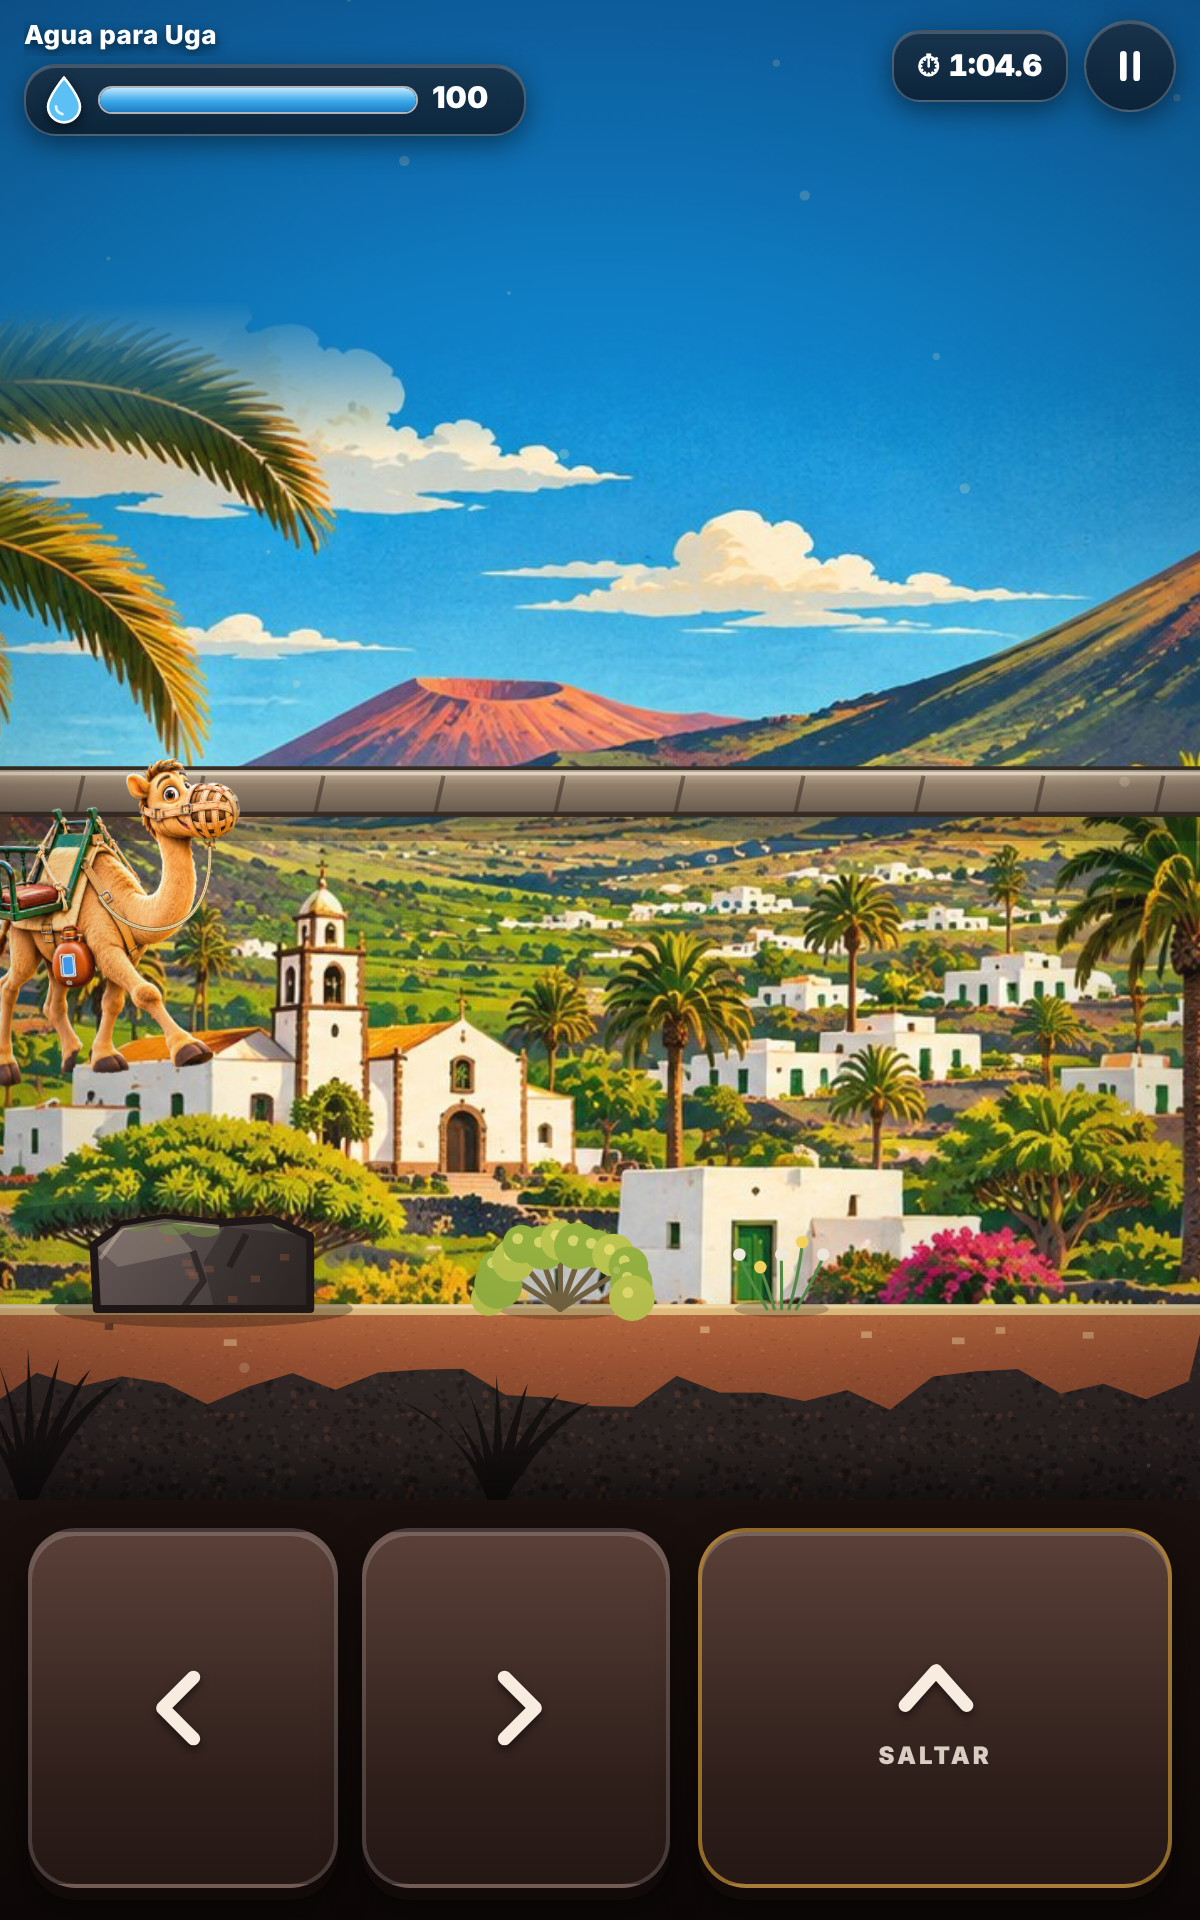
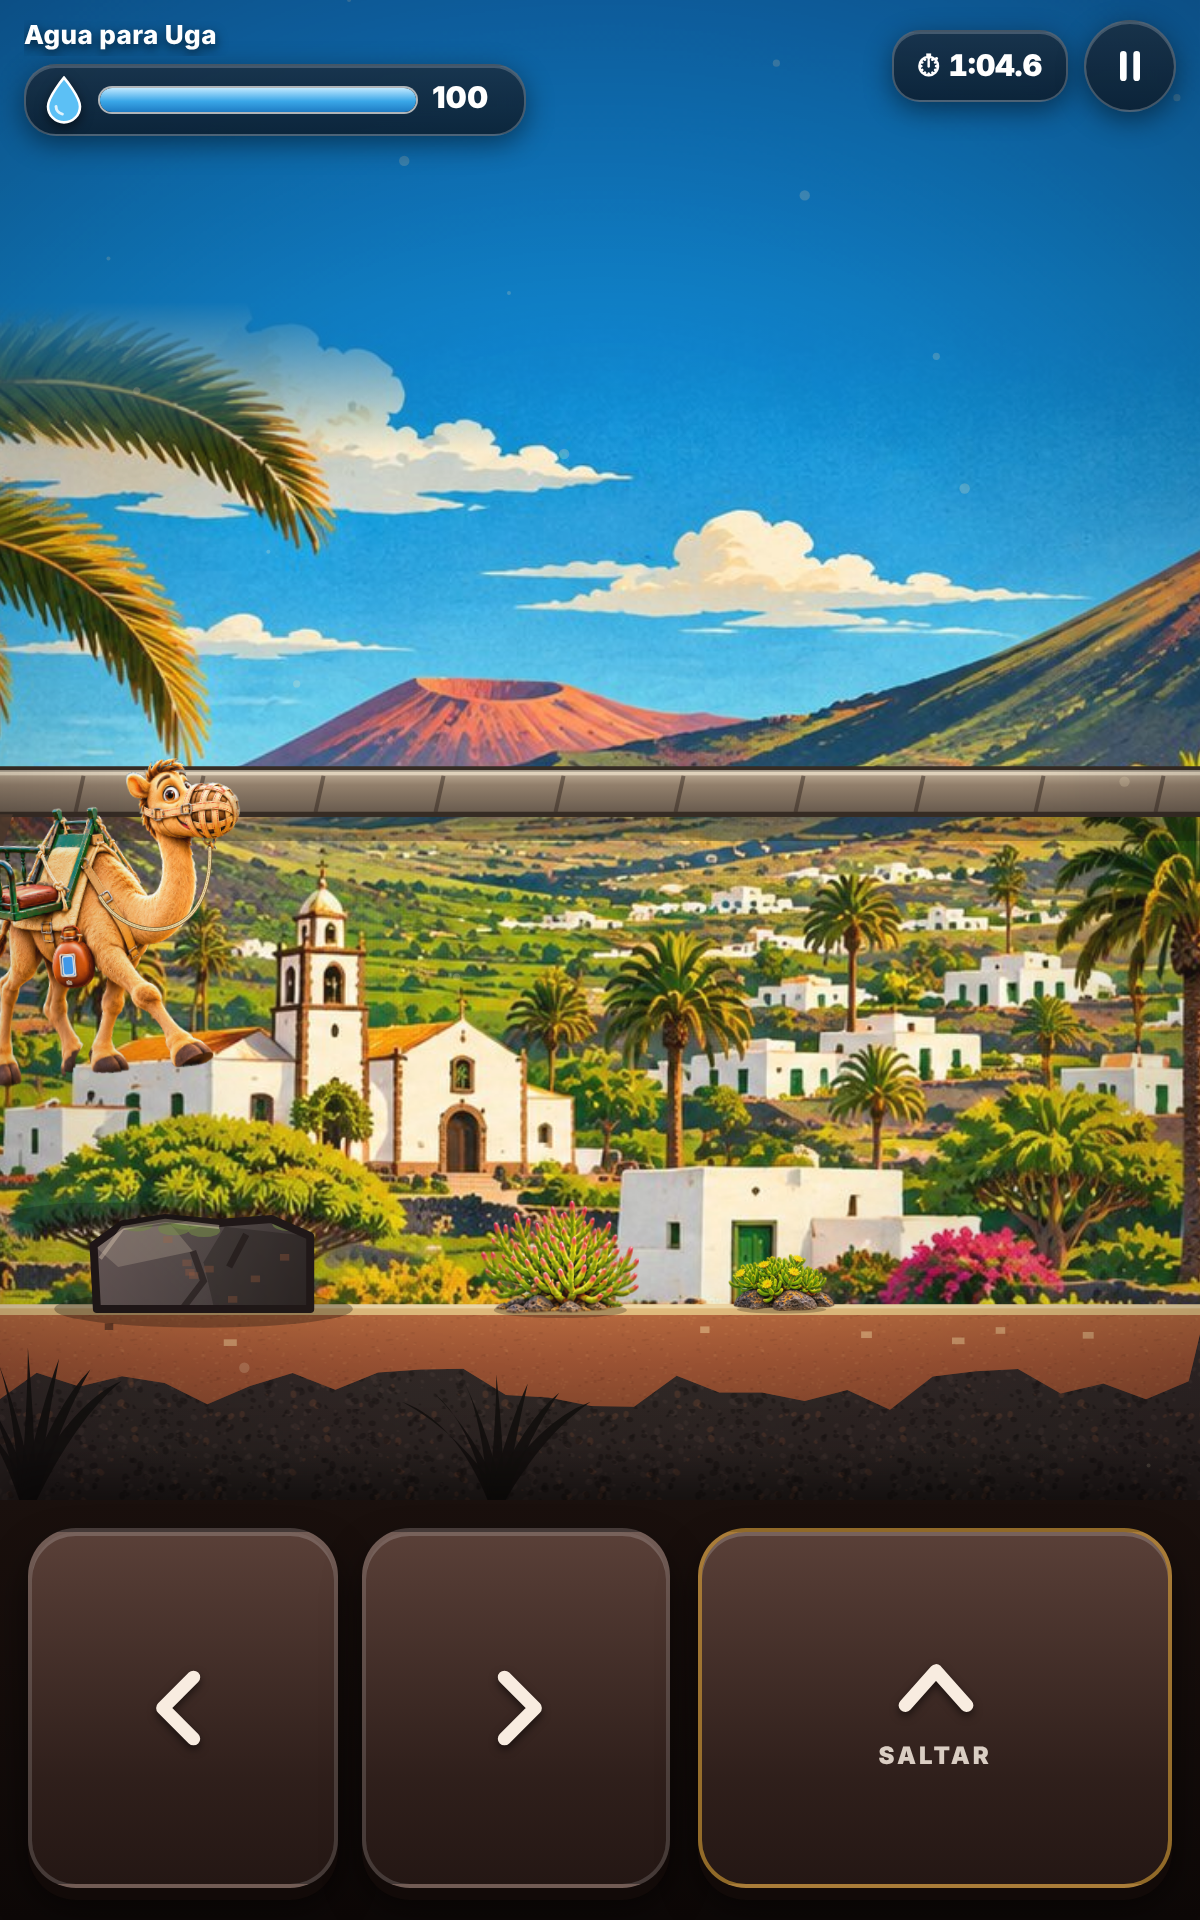
1.13.0: plantas y piedras de Lanzarote ilustradas (tunera, tabaiba, pita, aloe, bejeque, aulaga, vid, palmera, muros y rocas)
Claude-Session: https://claude.ai/code/session_01H2Jf8v1MHtV6zTpVoU4WWj

Changed region(s): [[0.37, 0.625, 0.555, 0.6875], [0.6167, 0.625, 0.7092, 0.6875]]

diff --git a/docs/app/dibujo.js b/docs/app/dibujo.js
@@ -522,7 +522,20 @@
   }
 
   /* ---- Primer plano ---- */
+  /* Plantas y piedras de Lanzarote dibujadas (flora.png): [x, y, ancho, alto] en el atlas y altura en el mundo */
+  const FLO = { ok: false, img: null, m: {"palmera": [0, 0, 203, 179, 3.3], "tabaibal": [205, 0, 227, 164, 1.6], "tunera": [434, 0, 172, 158, 1.5], "pita": [608, 0, 188, 143, 1.25], "vid": [798, 0, 200, 124, 1.0], "aloe": [0, 181, 147, 116, 1.3], "gris": [149, 181, 166, 112, 1.0], "bejeque": [317, 181, 160, 110, 1.05], "aulaga": [479, 181, 156, 110, 1.0], "morada": [637, 181, 143, 106, 0.95], "muro": [782, 181, 210, 106, 0.9], "salado": [0, 299, 145, 104, 0.9], "roca": [147, 299, 151, 104, 1.0], "hierba": [300, 299, 120, 84, 0.8], "piedra": [422, 299, 104, 80, 0.6], "rosas": [528, 299, 120, 80, 0.55], "amarillas": [650, 299, 135, 73, 0.5], "piedras": [787, 299, 112, 64, 0.45], "rojas": [0, 405, 152, 62, 0.45]},
+    por: { tunera: ['tunera', 'tunera', 'bejeque', 'aloe'], cardon: ['tabaibal', 'aulaga', 'morada', 'gris', 'salado', 'bejeque', 'vid', 'palmera'], pita: ['pita', 'aloe'], piedra: ['piedra', 'piedras', 'roca', 'muro'], flor: ['rojas', 'amarillas', 'rosas', 'hierba'] } };
+  if (typeof Image !== 'undefined') { FLO.img = new Image(); FLO.img.onload = () => { FLO.ok = true; }; FLO.img.src = 'flora.png'; }
+  function decoSprite(ctx, d, x, y, u) {
+    const l = FLO.por[d.t]; if (!l) return false;
+    const n = l[Math.floor(hash(Math.floor(d.x * 7) + 5) * l.length)], m = FLO.m[n];
+    const hh = m[4] * u * (0.85 + clamp((d.s - 0.75) / 1, 0, 1) * 0.35), ww = hh * m[2] / m[3];
+    ctx.save(); ctx.translate(x, y + hh * 0.04); if (hash(Math.floor(d.x * 11)) < 0.5) ctx.scale(-1, 1);
+    ctx.fillStyle = 'rgba(0,0,0,.25)'; ctx.beginPath(); ctx.ellipse(0, -hh * 0.03, ww * 0.42, hh * 0.07, 0, 0, TAU); ctx.fill();
+    ctx.drawImage(FLO.img, m[0], m[1], m[2], m[3], -ww / 2, -hh, ww, hh); ctx.restore(); return true;
+  }
   function dibujaDeco(ctx, d, x, y, u, t) {
+    if (FLO.ok && d.t !== 'lagarto' && decoSprite(ctx, d, x, y, u)) return;
     const s = d.s * u, sw = Math.sin(t * 1.3 + d.x) * 0.03;
     if (d.t === 'lagarto' && d.px != null) x += clamp(d.px + 2.4 - d.x, 0, 6) * u;
     ctx.save(); ctx.translate(x, y); ctx.lineCap = 'round'; ctx.lineJoin = 'round';

diff --git a/www/dibujo.js b/www/dibujo.js
@@ -522,7 +522,20 @@
   }
 
   /* ---- Primer plano ---- */
+  /* Plantas y piedras de Lanzarote dibujadas (flora.png): [x, y, ancho, alto] en el atlas y altura en el mundo */
+  const FLO = { ok: false, img: null, m: {"palmera": [0, 0, 203, 179, 3.3], "tabaibal": [205, 0, 227, 164, 1.6], "tunera": [434, 0, 172, 158, 1.5], "pita": [608, 0, 188, 143, 1.25], "vid": [798, 0, 200, 124, 1.0], "aloe": [0, 181, 147, 116, 1.3], "gris": [149, 181, 166, 112, 1.0], "bejeque": [317, 181, 160, 110, 1.05], "aulaga": [479, 181, 156, 110, 1.0], "morada": [637, 181, 143, 106, 0.95], "muro": [782, 181, 210, 106, 0.9], "salado": [0, 299, 145, 104, 0.9], "roca": [147, 299, 151, 104, 1.0], "hierba": [300, 299, 120, 84, 0.8], "piedra": [422, 299, 104, 80, 0.6], "rosas": [528, 299, 120, 80, 0.55], "amarillas": [650, 299, 135, 73, 0.5], "piedras": [787, 299, 112, 64, 0.45], "rojas": [0, 405, 152, 62, 0.45]},
+    por: { tunera: ['tunera', 'tunera', 'bejeque', 'aloe'], cardon: ['tabaibal', 'aulaga', 'morada', 'gris', 'salado', 'bejeque', 'vid', 'palmera'], pita: ['pita', 'aloe'], piedra: ['piedra', 'piedras', 'roca', 'muro'], flor: ['rojas', 'amarillas', 'rosas', 'hierba'] } };
+  if (typeof Image !== 'undefined') { FLO.img = new Image(); FLO.img.onload = () => { FLO.ok = true; }; FLO.img.src = 'flora.png'; }
+  function decoSprite(ctx, d, x, y, u) {
+    const l = FLO.por[d.t]; if (!l) return false;
+    const n = l[Math.floor(hash(Math.floor(d.x * 7) + 5) * l.length)], m = FLO.m[n];
+    const hh = m[4] * u * (0.85 + clamp((d.s - 0.75) / 1, 0, 1) * 0.35), ww = hh * m[2] / m[3];
+    ctx.save(); ctx.translate(x, y + hh * 0.04); if (hash(Math.floor(d.x * 11)) < 0.5) ctx.scale(-1, 1);
+    ctx.fillStyle = 'rgba(0,0,0,.25)'; ctx.beginPath(); ctx.ellipse(0, -hh * 0.03, ww * 0.42, hh * 0.07, 0, 0, TAU); ctx.fill();
+    ctx.drawImage(FLO.img, m[0], m[1], m[2], m[3], -ww / 2, -hh, ww, hh); ctx.restore(); return true;
+  }
   function dibujaDeco(ctx, d, x, y, u, t) {
+    if (FLO.ok && d.t !== 'lagarto' && decoSprite(ctx, d, x, y, u)) return;
     const s = d.s * u, sw = Math.sin(t * 1.3 + d.x) * 0.03;
     if (d.t === 'lagarto' && d.px != null) x += clamp(d.px + 2.4 - d.x, 0, 6) * u;
     ctx.save(); ctx.translate(x, y); ctx.lineCap = 'round'; ctx.lineJoin = 'round';

diff --git a/docs/app/sw.js b/docs/app/sw.js
@@ -1,8 +1,8 @@
 // Service worker: deja la versión web disponible sin conexión.
 // En la app Android no hace falta (los archivos ya van dentro del APK) y podría servir
 // una versión antigua tras actualizar, así que allí se da de baja solo.
-const CACHE = 'martin-v1.12.0';
-const ASSETS = ['./', 'index.html', 'martin.js', 'niveles.js', 'juego.js', 'dibujo.js', 'camello.png', 'portada.jpg', 'paisaje.jpg', 'paisaje-uga.jpg', 'paisaje-timanfaya.jpg', 'paisaje-geria.jpg', 'paisaje-costa.jpg', 'paisaje-ocaso.jpg', 'manifest.webmanifest', 'icons/icon-192.png', 'icons/icon-512.png', 'icons/icon-maskable-512.png', 'icons/apple-touch-icon.png', 'i18n-en.js', 'i18n-fr.js', 'i18n-de.js', 'i18n-it.js', 'idioma.js', 'masjuegos.js', 'audio-suave.js', 'turno.js', 'contador.js', 'invitacion.js', 'publicas.js', 'juegos/ajedrez.png', 'juegos/chinchon.png', 'juegos/pumba.png', 'juegos/damas.png', 'juegos/parchis.png', 'juegos/poker.png', 'juegos/uno.png', 'juegos/martin.png'];
+const CACHE = 'martin-v1.13.0';
+const ASSETS = ['./', 'index.html', 'martin.js', 'niveles.js', 'juego.js', 'dibujo.js', 'camello.png', 'portada.jpg', 'paisaje.jpg', 'flora.png', 'paisaje-uga.jpg', 'paisaje-timanfaya.jpg', 'paisaje-geria.jpg', 'paisaje-costa.jpg', 'paisaje-ocaso.jpg', 'manifest.webmanifest', 'icons/icon-192.png', 'icons/icon-512.png', 'icons/icon-maskable-512.png', 'icons/apple-touch-icon.png', 'i18n-en.js', 'i18n-fr.js', 'i18n-de.js', 'i18n-it.js', 'idioma.js', 'masjuegos.js', 'audio-suave.js', 'turno.js', 'contador.js', 'invitacion.js', 'publicas.js', 'juegos/ajedrez.png', 'juegos/chinchon.png', 'juegos/pumba.png', 'juegos/damas.png', 'juegos/parchis.png', 'juegos/poker.png', 'juegos/uno.png', 'juegos/martin.png'];
 const NATIVE = self.location.hostname === 'localhost' && self.location.protocol === 'https:';
 
 self.addEventListener('install', e => {

diff --git a/www/sw.js b/www/sw.js
@@ -1,8 +1,8 @@
 // Service worker: deja la versión web disponible sin conexión.
 // En la app Android no hace falta (los archivos ya van dentro del APK) y podría servir
 // una versión antigua tras actualizar, así que allí se da de baja solo.
-const CACHE = 'martin-v1.12.0';
-const ASSETS = ['./', 'index.html', 'martin.js', 'niveles.js', 'juego.js', 'dibujo.js', 'camello.png', 'portada.jpg', 'paisaje.jpg', 'paisaje-uga.jpg', 'paisaje-timanfaya.jpg', 'paisaje-geria.jpg', 'paisaje-costa.jpg', 'paisaje-ocaso.jpg', 'manifest.webmanifest', 'icons/icon-192.png', 'icons/icon-512.png', 'icons/icon-maskable-512.png', 'icons/apple-touch-icon.png', 'i18n-en.js', 'i18n-fr.js', 'i18n-de.js', 'i18n-it.js', 'idioma.js', 'masjuegos.js', 'audio-suave.js', 'turno.js', 'contador.js', 'invitacion.js', 'publicas.js', 'juegos/ajedrez.png', 'juegos/chinchon.png', 'juegos/pumba.png', 'juegos/damas.png', 'juegos/parchis.png', 'juegos/poker.png', 'juegos/uno.png', 'juegos/martin.png'];
+const CACHE = 'martin-v1.13.0';
+const ASSETS = ['./', 'index.html', 'martin.js', 'niveles.js', 'juego.js', 'dibujo.js', 'camello.png', 'portada.jpg', 'paisaje.jpg', 'flora.png', 'paisaje-uga.jpg', 'paisaje-timanfaya.jpg', 'paisaje-geria.jpg', 'paisaje-costa.jpg', 'paisaje-ocaso.jpg', 'manifest.webmanifest', 'icons/icon-192.png', 'icons/icon-512.png', 'icons/icon-maskable-512.png', 'icons/apple-touch-icon.png', 'i18n-en.js', 'i18n-fr.js', 'i18n-de.js', 'i18n-it.js', 'idioma.js', 'masjuegos.js', 'audio-suave.js', 'turno.js', 'contador.js', 'invitacion.js', 'publicas.js', 'juegos/ajedrez.png', 'juegos/chinchon.png', 'juegos/pumba.png', 'juegos/damas.png', 'juegos/parchis.png', 'juegos/poker.png', 'juegos/uno.png', 'juegos/martin.png'];
 const NATIVE = self.location.hostname === 'localhost' && self.location.protocol === 'https:';
 
 self.addEventListener('install', e => {

diff --git a/docs/app/index.html b/docs/app/index.html
@@ -407,7 +407,7 @@ function openThemes() {
   AvisoTurno.enlazar();
 }
 
-const APP_VERSION = '1.12.0';
+const APP_VERSION = '1.13.0';
 const REPO = 'csuarezsm/Martin';
 const MAX_ARCHIVE = 500;
 const uid = () => Math.random().toString(36).slice(2, 10);

diff --git a/www/index.html b/www/index.html
@@ -407,7 +407,7 @@ function openThemes() {
   AvisoTurno.enlazar();
 }
 
-const APP_VERSION = '1.12.0';
+const APP_VERSION = '1.13.0';
 const REPO = 'csuarezsm/Martin';
 const MAX_ARCHIVE = 500;
 const uid = () => Math.random().toString(36).slice(2, 10);

diff --git a/README.md b/README.md
@@ -2,7 +2,7 @@
 
 Un camello canario joven de Uga lleva el agua por los caminos que dejó la tormenta: lava, rocas, huecos y bajadas. **6 niveles de plataformas** con tres estrellas cada uno, a veces con dos caminos (uno rápido y arriesgado, otro lento y seguro), y un **reto diario** igual para todos con ranking.
 Para Android e iPhone. Gratis, sin anuncios y sin cuentas. App Capacitor + web (`www/`). Todo se guarda en el móvil; solo el reto diario usa el servidor de juegos (nombre y pulsaciones, para comprobar el tiempo).
-Paquete: `com.itcanarias.martin` · versión 1.12.0
+Paquete: `com.itcanarias.martin` · versión 1.13.0
 
 **iPhone y navegadores**: la misma app se publica como versión web instalable en https://csuarezsm.github.io/Martin/app/ (GitHub Pages, carpeta `docs/app`, copia de `www/`). En Safari: Compartir → «Añadir a pantalla de inicio». Tras cambiar `www/`, ejecuta `npm run web`.
 
